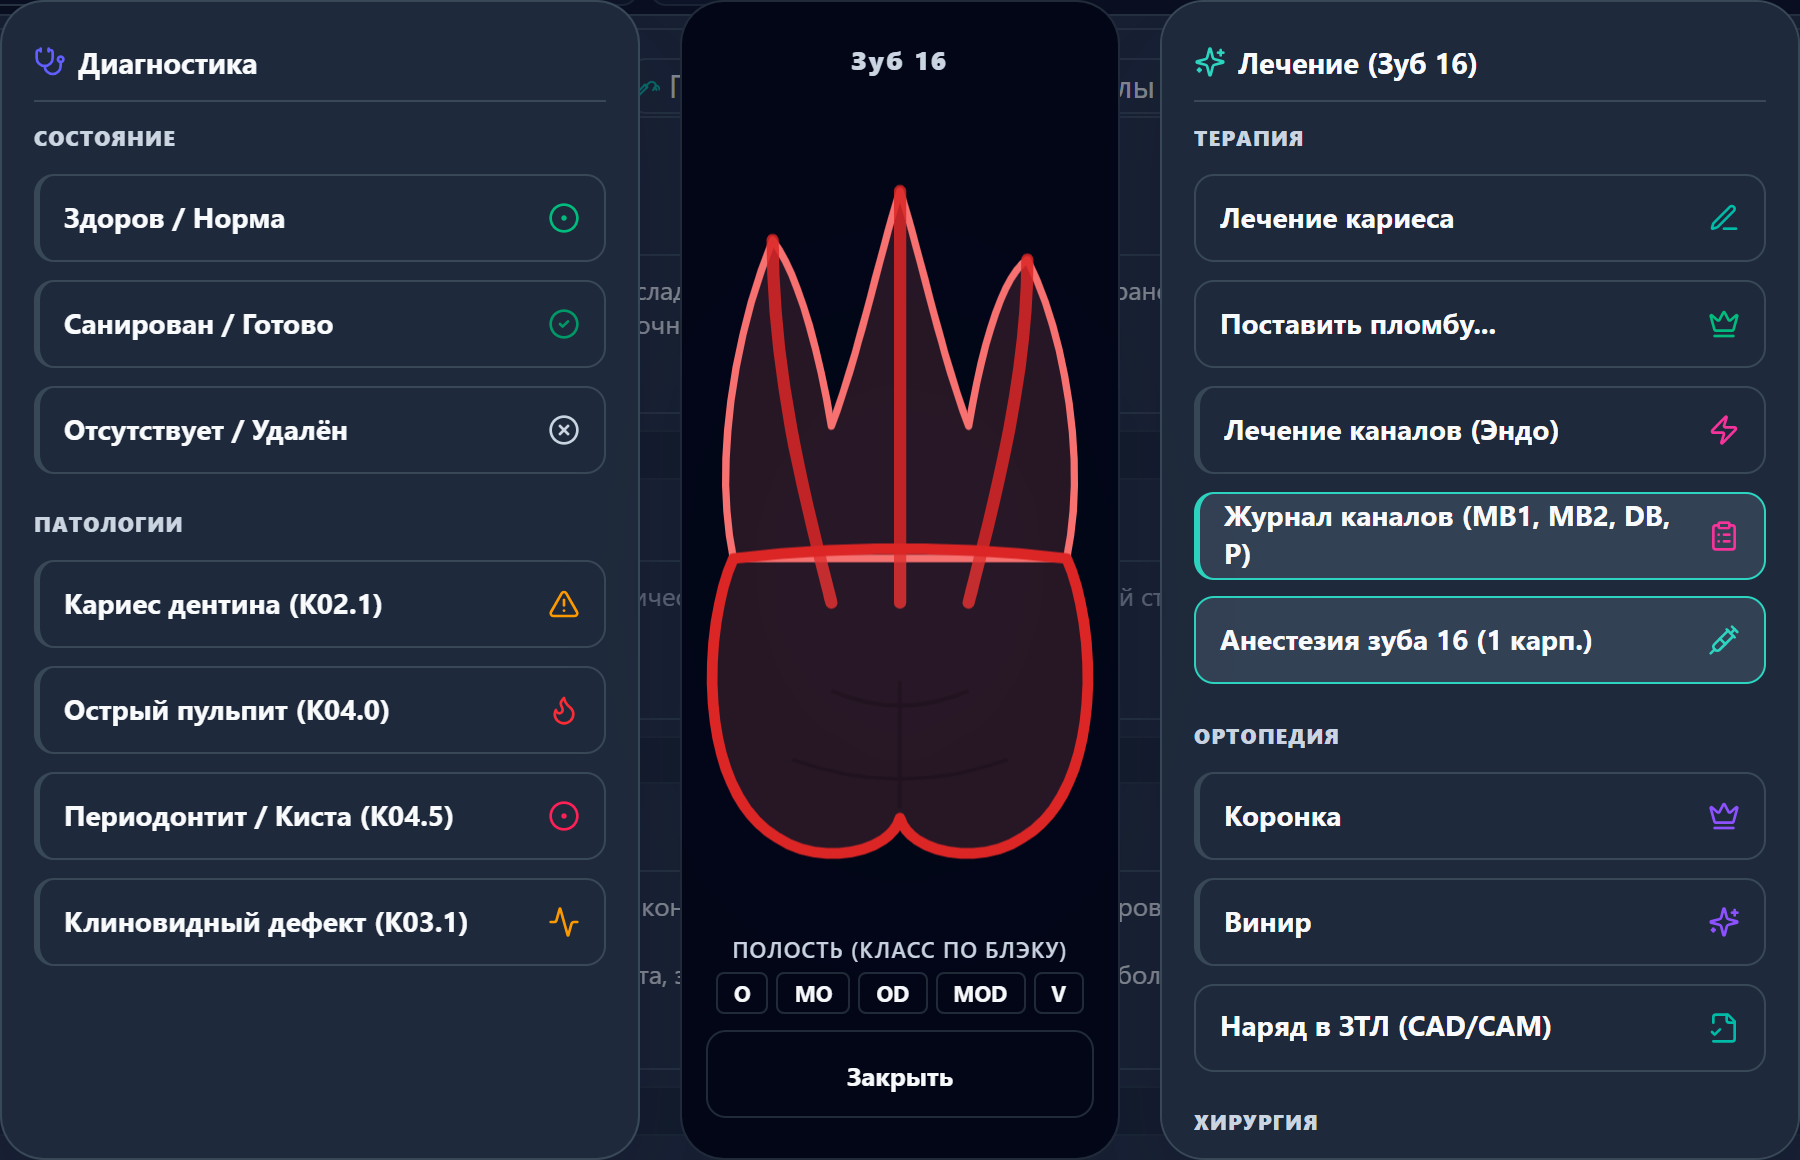
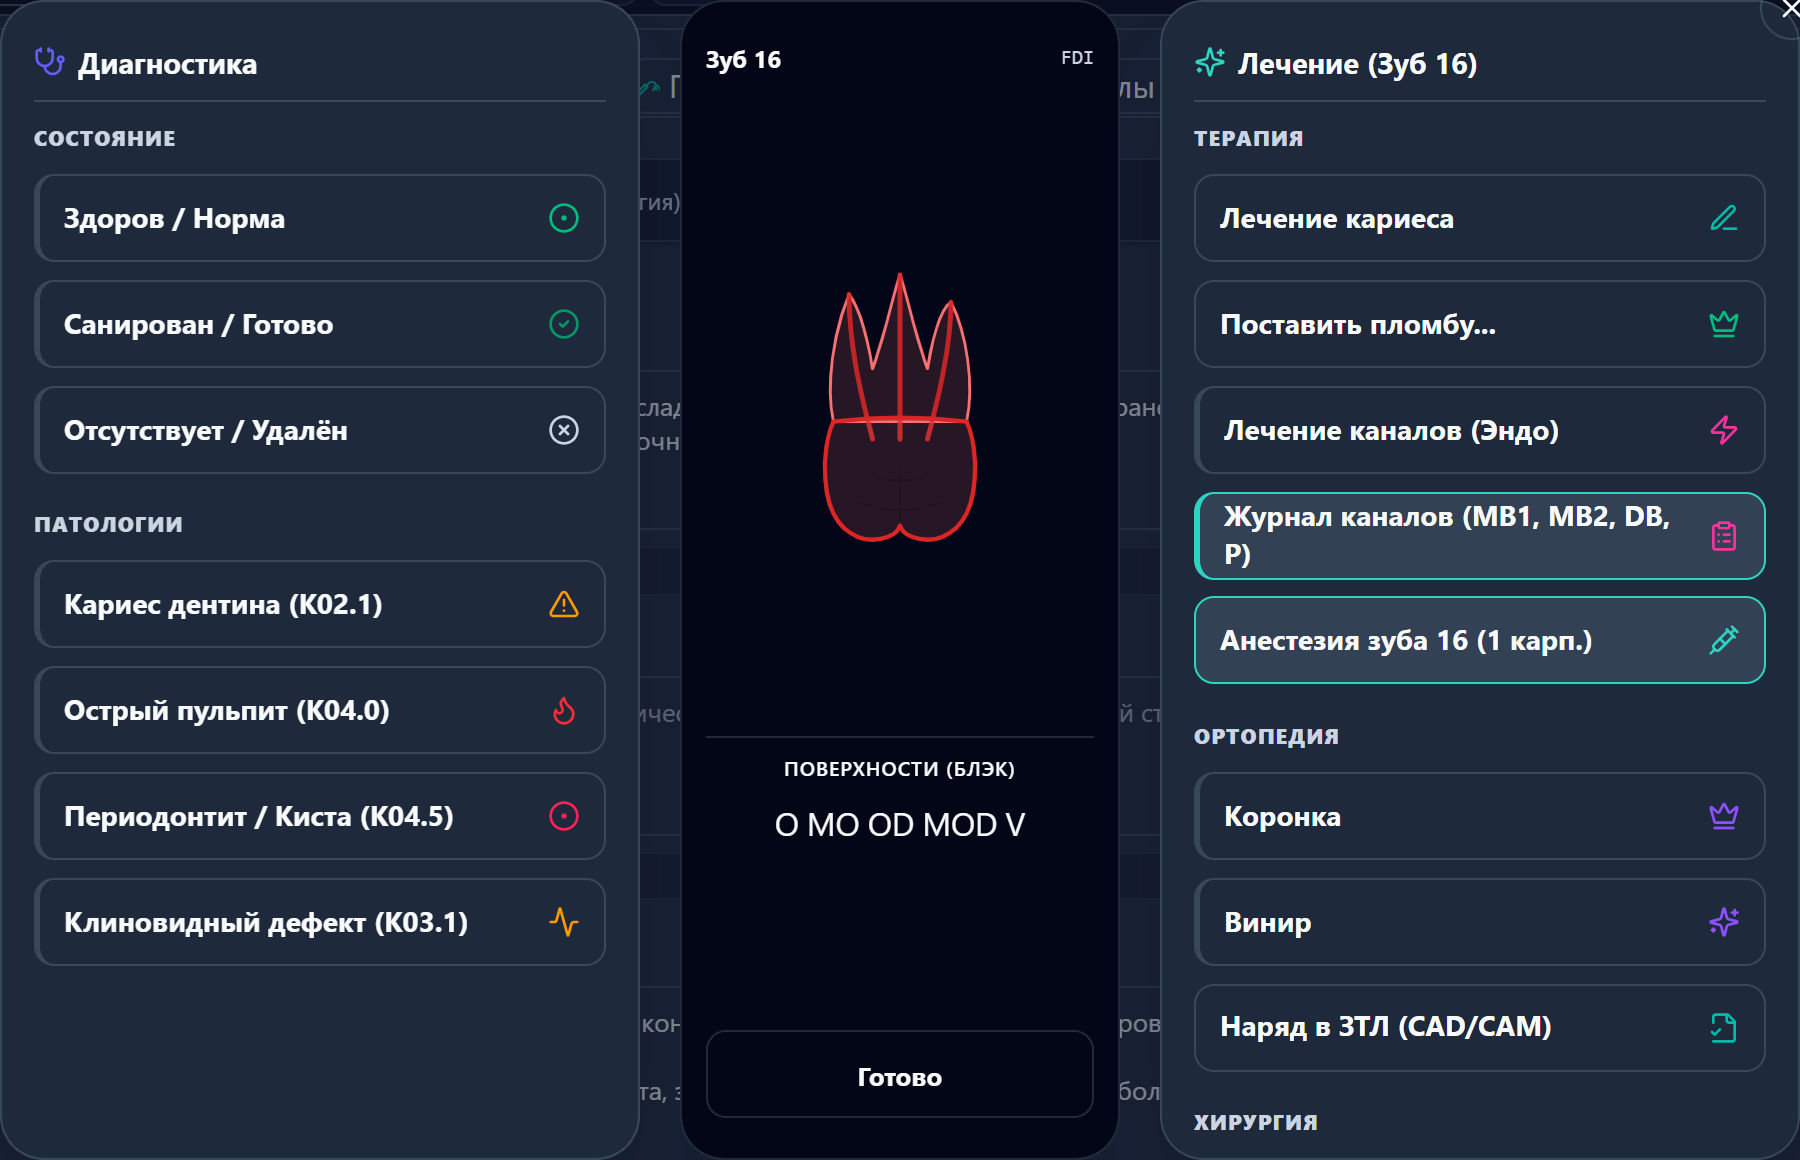
fix(visit): eliminate oversized tooth zoom and crude cavity layout in clinical tooth modal

diff --git a/apps/web/src/components/visit/view/VisitClinicalToothModal.tsx b/apps/web/src/components/visit/view/VisitClinicalToothModal.tsx
@@ -16,6 +16,7 @@ import {
 	Sparkles,
 	Stethoscope,
 	Syringe,
+	X,
 	XCircle,
 	Zap,
 } from "lucide-react";
@@ -189,11 +190,21 @@ export function VisitClinicalToothModal({
 				}
 			/>
 			<div
-				className="_ccm-content"
+				className="_ccm-content relative"
 				role="dialog"
 				aria-modal="true"
 				aria-label={`Зуб ${code}`}
 			>
+				<button
+					type="button"
+					onClick={closeClinicalModal}
+					className="absolute -top-3 -right-3 w-8 h-8 rounded-full bg-[var(--paper-strong)] border border-[var(--glass-border)] shadow-md text-[var(--muted)] hover:text-[var(--ink)] hover:bg-[var(--paper-soft)] flex items-center justify-center cursor-pointer transition-all z-50"
+					aria-label="Закрыть модальное окно"
+					title="Закрыть (Esc)"
+				>
+					<X className="w-4 h-4 shrink-0" />
+				</button>
+
 				{/* ── LEFT: Diagnosis ── */}
 				<div className="_ccm-panel">
 					<h4 className="_ccm-h flex items-center gap-1.5">
@@ -325,42 +336,20 @@ export function VisitClinicalToothModal({
 
 				{/* ── CENTER: Tooth preview ── */}
 				<div className="_ccm-center">
-					<div className="_ccm-code-badge">Зуб {code}</div>
+					<div className="flex items-center justify-between w-full mb-1">
+						<span className="text-xs font-bold text-[var(--ink)]">Зуб {code}</span>
+						<span className="text-[10px] text-[var(--muted)] font-mono">FDI</span>
+					</div>
 					<div className="_ccm-tooth-stage" aria-hidden="true">
 						{toothSvg}
 					</div>
 
-					{/* Селектор полостей (Класс по Блэку: O, MO, OD, MOD, V) */}
-					<div
-						style={{
-							display: "flex",
-							flexDirection: "column",
-							alignItems: "center",
-							gap: "4px",
-							width: "100%",
-							marginTop: "6px",
-							marginBottom: "8px",
-						}}
-					>
-						<span
-							style={{
-								fontSize: "11px",
-								fontWeight: 600,
-								textTransform: "uppercase",
-								letterSpacing: "0.05em",
-								color: "var(--muted)",
-							}}
-						>
-							Полость (Класс по Блэку)
+					{/* Селектор полостей по Блэку (компактные клинические чипы) */}
+					<div className="flex flex-col items-center gap-1.5 w-full my-2 pt-2 border-t border-[var(--glass-border)]">
+						<span className="text-[10px] font-semibold text-[var(--muted)] uppercase tracking-wider">
+							Поверхности (Блэк)
 						</span>
-						<div
-							style={{
-								display: "flex",
-								gap: "4px",
-								flexWrap: "wrap",
-								justifyContent: "center",
-							}}
-						>
+						<div className="flex items-center justify-center gap-1 flex-wrap">
 							{["O", "MO", "OD", "MOD", "V"].map((cavity) => {
 								const isSelected = selectedSurfaces.includes(cavity);
 								return (
@@ -369,21 +358,12 @@ export function VisitClinicalToothModal({
 										type="button"
 										data-testid={`btn-cavity-${cavity.toLowerCase()}`}
 										onClick={() => handleSelectSurface(cavity)}
-										style={{
-											padding: "2px 8px",
-											fontSize: "11px",
-											fontWeight: 700,
-											borderRadius: "4px",
-											border: isSelected
-												? "1px solid var(--amber, #f59e0b)"
-												: "1px solid var(--line)",
-											backgroundColor: isSelected
-												? "var(--warn-bg, #fef3c7)"
-												: "var(--paper-soft)",
-											color: isSelected ? "var(--warn-ink, #b45309)" : "var(--ink)",
-											cursor: "pointer",
-											transition: "all 0.15s ease",
-										}}
+										className={`h-7 px-2.5 text-xs font-bold rounded-lg border transition-all cursor-pointer ${
+											isSelected
+												? "bg-amber-500 text-white border-amber-500 shadow-2xs"
+												: "bg-[var(--paper)] text-[var(--ink)] border-[var(--glass-border)] hover:bg-[var(--paper-soft)]"
+										}`}
+										title={`Полость класса ${cavity}`}
 									>
 										{cavity}
 									</button>
@@ -394,10 +374,10 @@ export function VisitClinicalToothModal({
 
 					<button
 						type="button"
-						className="_ccm-close-btn"
+						className="_ccm-close-btn w-full mt-auto"
 						onClick={closeClinicalModal}
 					>
-						Закрыть
+						Готово
 					</button>
 				</div>
 

diff --git a/apps/web/src/styles/modules/modals.css b/apps/web/src/styles/modules/modals.css
@@ -416,8 +416,9 @@
 	display: flex;
 	align-items: center;
 	justify-content: center;
-	transform: scale(2.5);
-	filter: drop-shadow(0 12px 24px rgba(15, 23, 42, 0.18));
+	transform: none;
+	max-height: 155px;
+	filter: drop-shadow(0 2px 6px rgba(15, 23, 42, 0.08));
 }
 ._ccm-h {
 	margin: 0 0 0.15rem;

diff --git a/apps/web/src/styles/VisitView.css b/apps/web/src/styles/VisitView.css
@@ -71,8 +71,9 @@
 	display: flex;
 	align-items: center;
 	justify-content: center;
-	transform: scale(2.5);
-	filter: drop-shadow(0 12px 24px rgba(15, 23, 42, 0.18));
+	transform: none;
+	max-height: 155px;
+	filter: drop-shadow(0 2px 6px rgba(15, 23, 42, 0.08));
 }
 ._ccm-h {
 	margin: 0 0 0.15rem;
